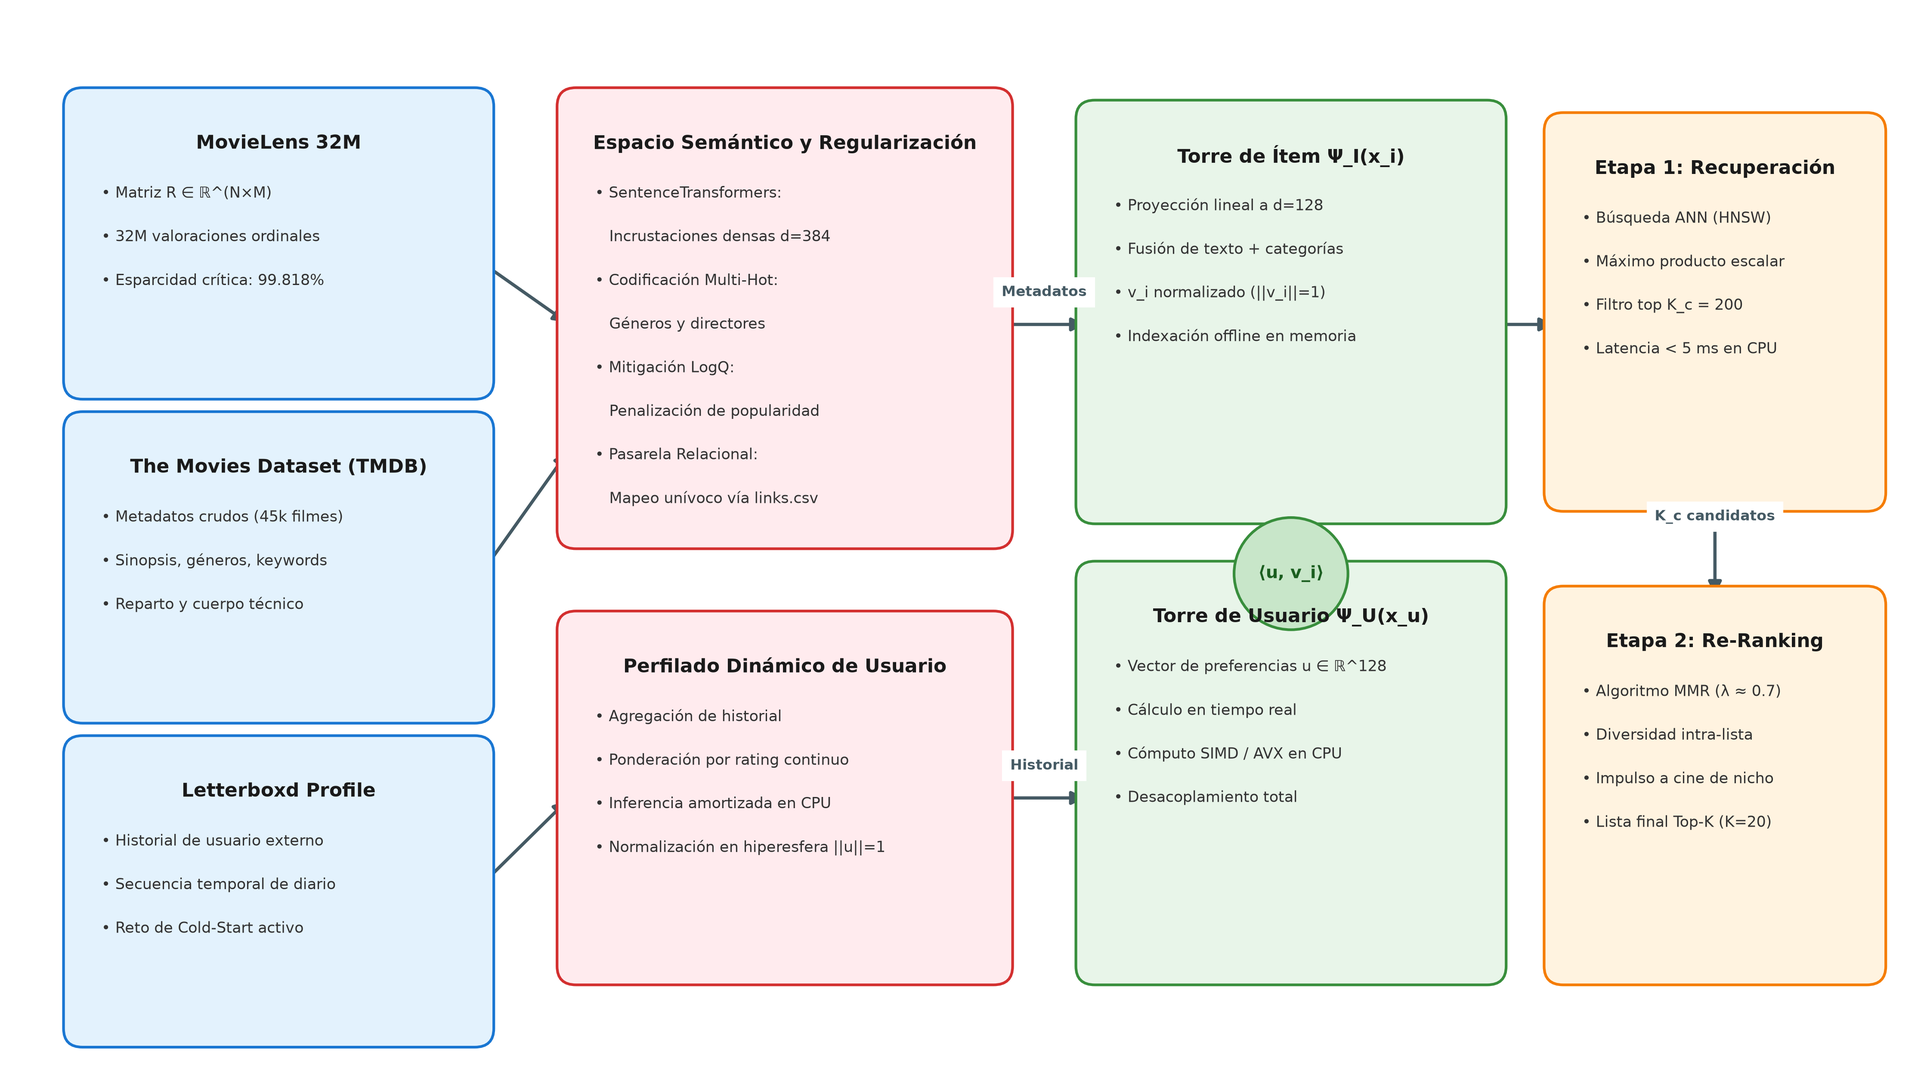
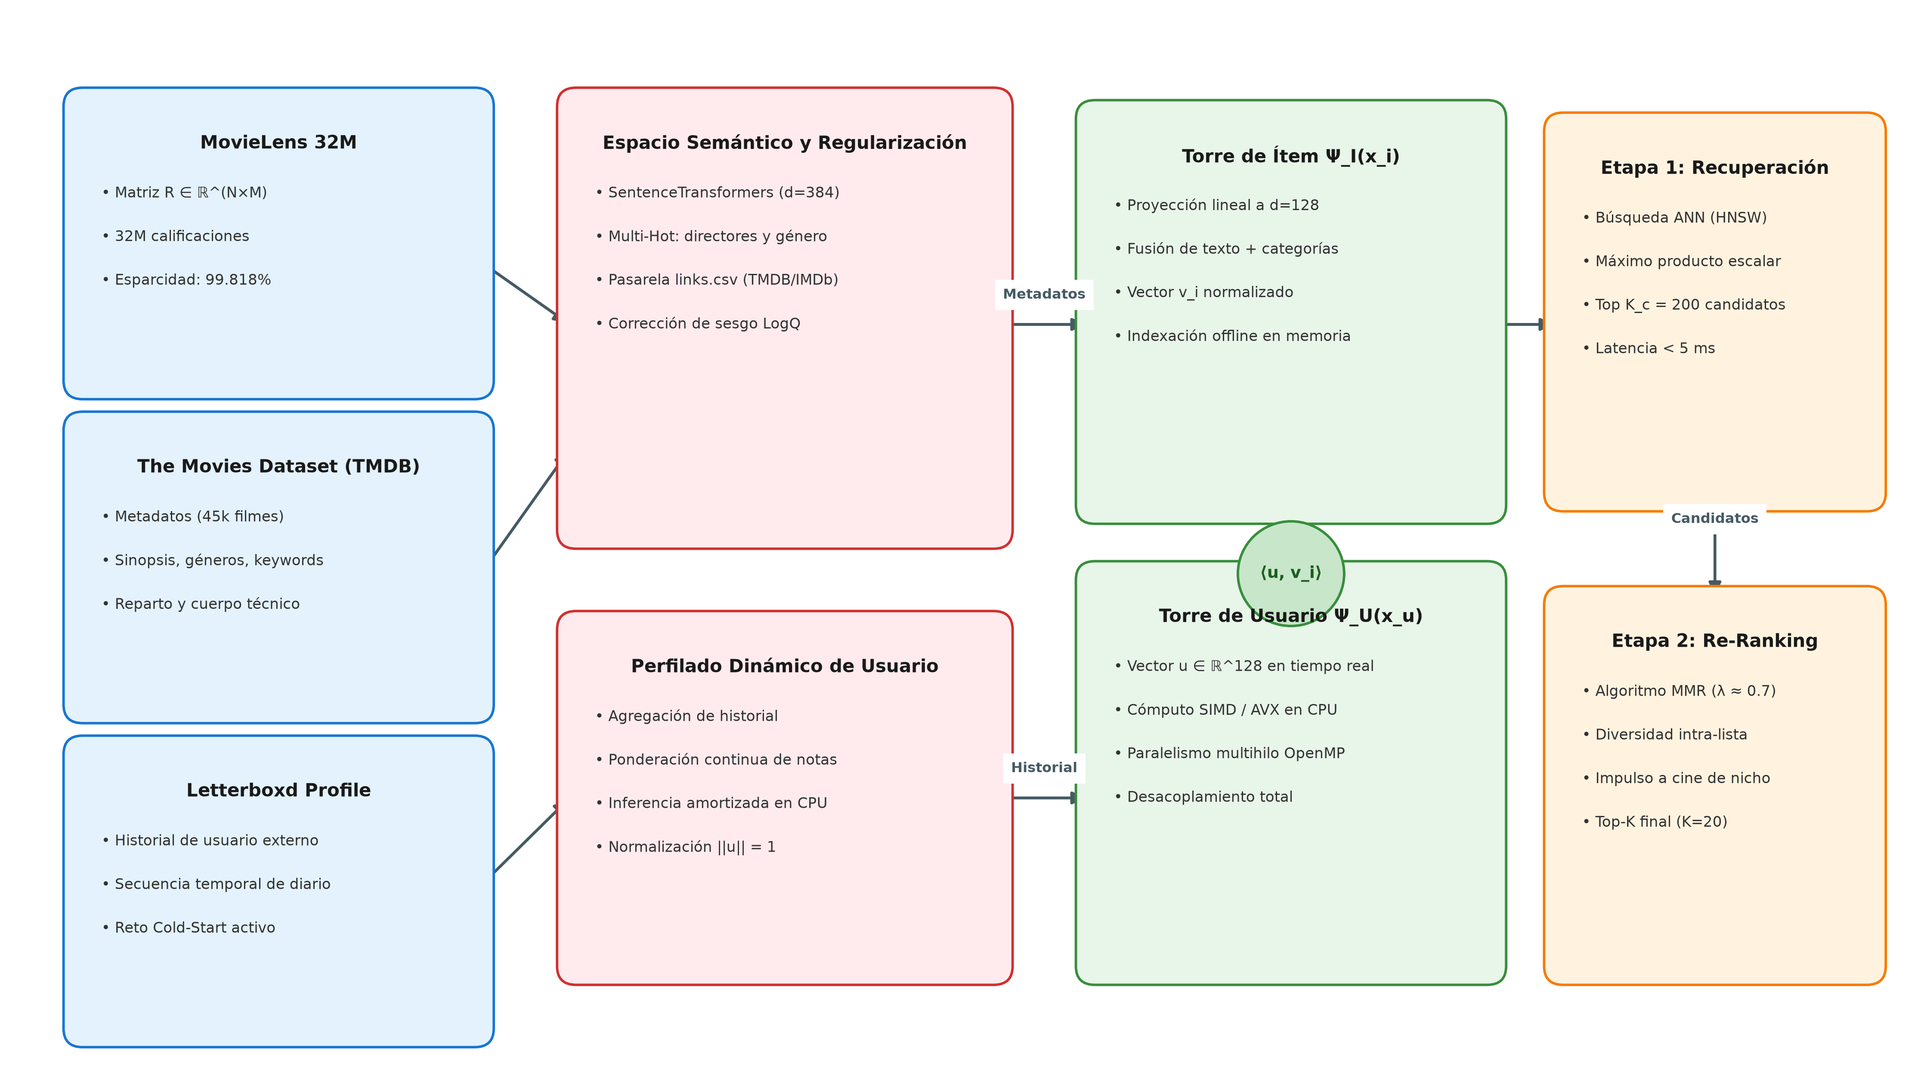
Add diagrams and update diagram generation script in E1 proposal

diff --git a/ENTREGAS/E1_PROPUESTA/generar_diagrama.py b/ENTREGAS/E1_PROPUESTA/generar_diagrama.py
@@ -1,112 +1,289 @@
+import os
+from collections import Counter
+import numpy as np
 import matplotlib.pyplot as plt
 import matplotlib.patches as patches
+import pandas as pd
 
-# Configuración de figura y lienzo
-fig, ax = plt.subplots(figsize=(15, 8.5), dpi=300)
-ax.set_xlim(0, 15)
-ax.set_ylim(0, 8.5)
-ax.axis('off')
+# Carpeta donde reside este script (ENTREGAS/E1_PROPUESTA)
+OUTPUT_DIR = os.path.dirname(os.path.abspath(__file__))
 
-# Paleta de colores sobria y académica
-c_data = '#E3F2FD'     # Azul claro (Datos)
-c_border_data = '#1976D2'
-c_model = '#E8F5E9'    # Verde claro (Modelos/Proceso)
-c_border_model = '#388E3C'
-c_retrieval = '#FFF3E0'# Naranja suave (Inferencia/Ranking)
-c_border_retrieval = '#F57C00'
-c_challenge = '#FFEBEE'# Rojo suave (Retos matemáticos)
-c_border_challenge = '#D32F2F'
+# Ruta hacia data/ml-32m/ratings.csv
+CSV_PATH = os.path.abspath(os.path.join(OUTPUT_DIR, "..", "..", "data", "ml-32m", "ratings.csv"))
 
-def draw_card(ax, x, y, w, h, title, text_lines, bg_col, border_col):
-    rect = patches.FancyBboxPatch((x, y), w, h,
-                                  boxstyle="round,pad=0.1,rounding_size=0.15",
-                                  linewidth=1.5, edgecolor=border_col,
-                                  facecolor=bg_col, zorder=2)
-    ax.add_patch(rect)
-    ax.text(x + w/2, y + h - 0.35, title, ha='center', va='center',
-            fontsize=10.5, fontweight='bold', color='#1A1A1A', zorder=3)
+plt.rcParams['font.sans-serif'] = 'DejaVu Sans'
+plt.rcParams['axes.edgecolor'] = '#333333'
+plt.rcParams['axes.linewidth'] = 0.8
+
+# ==============================================================================
+# FIGURA 1: diagrama_problema_M.png
+# ==============================================================================
+def generar_diagrama_problema():
+    print("-> Generando figura 1: diagrama_problema_M.png...", flush=True)
+    fig, ax = plt.subplots(figsize=(15, 8.5), dpi=300)
+    ax.set_xlim(0, 15)
+    ax.set_ylim(0, 8.5)
+    ax.axis('off')
+
+    c_data = '#E3F2FD'
+    c_b_data = '#1976D2'
+    c_proc = '#FFEBEE'
+    c_b_proc = '#D32F2F'
+    c_model = '#E8F5E9'
+    c_b_model = '#388E3C'
+    c_ret = '#FFF3E0'
+    c_b_ret = '#F57C00'
+
+    def card(x, y, w, h, title, lines, bg, border):
+        rect = patches.FancyBboxPatch((x, y), w, h, boxstyle="round,pad=0.1,rounding_size=0.15",
+                                      linewidth=1.4, edgecolor=border, facecolor=bg, zorder=2)
+        ax.add_patch(rect)
+        ax.text(x + w/2, y + h - 0.35, title, ha='center', va='center',
+                fontsize=10, fontweight='bold', color='#1A1A1A', zorder=3)
+        cy = y + h - 0.75
+        for line in lines:
+            ax.text(x + 0.2, cy, line, ha='left', va='center', fontsize=8.2, color='#333333', zorder=3)
+            cy -= 0.35
+
+    def flecha(start, end, label=""):
+        ax.annotate('', xy=end, xytext=start,
+                    arrowprops=dict(arrowstyle="-|>", color="#455A64", lw=1.6, mutation_scale=14), zorder=1)
+        if label:
+            mx, my = (start[0] + end[0]) / 2, (start[1] + end[1]) / 2 + 0.18
+            ax.text(mx, my, label, ha='center', va='bottom', fontsize=7.8, fontweight='bold',
+                    color='#455A64', backgroundcolor='white')
+
+    card(0.5, 5.5, 3.2, 2.3, "MovieLens 32M",
+         ["• Matriz R ∈ ℝ^(N×M)", "• 32M calificaciones", "• Esparcidad: 99.818%"], c_data, c_b_data)
+    card(0.5, 2.9, 3.2, 2.3, "The Movies Dataset (TMDB)",
+         ["• Metadatos (45k filmes)", "• Sinopsis, géneros, keywords", "• Reparto y cuerpo técnico"], c_data, c_b_data)
+    card(0.5, 0.3, 3.2, 2.3, "Letterboxd Profile",
+         ["• Historial de usuario externo", "• Secuencia temporal de diario", "• Reto Cold-Start activo"], c_data, c_b_data)
+
+    card(4.4, 4.3, 3.4, 3.5, "Espacio Semántico y Regularización",
+         ["• SentenceTransformers (d=384)", "• Multi-Hot: directores y género",
+          "• Pasarela links.csv (TMDB/IMDb)", "• Corrección de sesgo LogQ"], c_proc, c_b_proc)
+    card(4.4, 0.8, 3.4, 2.8, "Perfilado Dinámico de Usuario",
+         ["• Agregación de historial", "• Ponderación continua de notas",
+          "• Inferencia amortizada en CPU", "• Normalización ||u|| = 1"], c_proc, c_b_proc)
+
+    card(8.5, 4.5, 3.2, 3.2, "Torre de Ítem Ψ_I(x_i)",
+         ["• Proyección lineal a d=128", "• Fusión de texto + categorías",
+          "• Vector v_i normalizado", "• Indexación offline en memoria"], c_model, c_b_model)
+    card(8.5, 0.8, 3.2, 3.2, "Torre de Usuario Ψ_U(x_u)",
+         ["• Vector u ∈ ℝ^128 en tiempo real", "• Cómputo SIMD / AVX en CPU",
+          "• Paralelismo multihilo OpenMP", "• Desacoplamiento total"], c_model, c_b_model)
+
+    dot = patches.Circle((10.1, 4.0), 0.42, lw=1.4, edgecolor='#388E3C', facecolor='#C8E6C9', zorder=2)
+    ax.add_patch(dot)
+    ax.text(10.1, 4.0, "⟨u, v_i⟩", ha='center', va='center', fontsize=9.2, fontweight='bold', color='#1B5E20', zorder=3)
+
+    card(12.2, 4.6, 2.5, 3.0, "Etapa 1: Recuperación",
+         ["• Búsqueda ANN (HNSW)", "• Máximo producto escalar", "• Top K_c = 200 candidatos", "• Latencia < 5 ms"], c_ret, c_b_ret)
+    card(12.2, 0.8, 2.5, 3.0, "Etapa 2: Re-Ranking",
+         ["• Algoritmo MMR (λ ≈ 0.7)", "• Diversidad intra-lista", "• Impulso a cine de nicho", "• Top-K final (K=20)"], c_ret, c_b_ret)
+
+    flecha((3.7, 6.5), (4.4, 6.0))
+    flecha((3.7, 4.0), (4.4, 5.0))
+    flecha((3.7, 1.5), (4.4, 2.2))
+    flecha((7.8, 6.0), (8.5, 6.0), "Metadatos")
+    flecha((7.8, 2.2), (8.5, 2.2), "Historial")
+    flecha((10.1, 4.5), (10.1, 4.42))
+    flecha((10.1, 3.5), (10.1, 3.58))
+    flecha((11.7, 6.0), (12.2, 6.0))
+    flecha((13.45, 4.6), (13.45, 3.8), "Candidatos")
+
+    plt.tight_layout()
+    ruta_salida = os.path.join(OUTPUT_DIR, "diagrama_problema_M.png")
+    plt.savefig(ruta_salida, dpi=300, bbox_inches='tight')
+    plt.close()
+    print(f"[✓] Creado: {ruta_salida}", flush=True)
+
+# ==============================================================================
+# FIGURA 2: distribucion_ratings.png (DATOS REALES)
+# ==============================================================================
+def generar_distribucion_ratings():
+    print(f"-> Generando figura 2 desde: {CSV_PATH}...", flush=True)
     
-    current_y = y + h - 0.75
-    for line in text_lines:
-        ax.text(x + 0.2, current_y, line, ha='left', va='center',
-                fontsize=8.5, color='#333333', zorder=3)
-        current_y -= 0.35
+    ratings_posibles = np.array([0.5, 1.0, 1.5, 2.0, 2.5, 3.0, 3.5, 4.0, 4.5, 5.0])
+    rating_counts = Counter()
+    movie_counts = Counter()
 
-def draw_arrow(ax, start, end, label=""):
-    ax.annotate('', xy=end, xytext=start,
-                arrowprops=dict(arrowstyle="-|>", color="#455A64", lw=1.8, mutation_scale=15),
-                zorder=1)
-    if label:
-        mid_x = (start[0] + end[0]) / 2
-        mid_y = (start[1] + end[1]) / 2 + 0.2
-        ax.text(mid_x, mid_y, label, ha='center', va='bottom',
-                fontsize=8, fontweight='bold', color='#455A64', backgroundcolor='white')
+    if os.path.exists(CSV_PATH):
+        total_filas = 0
+        for chunk in pd.read_csv(CSV_PATH, usecols=['movieId', 'rating'], chunksize=5_000_000):
+            total_filas += len(chunk)
+            rating_counts.update(chunk['rating'].value_counts().to_dict())
+            movie_counts.update(chunk['movieId'].value_counts().to_dict())
+            print(f"   Filas procesadas: {total_filas:,} / 32,000,204...", flush=True)
 
-# --- 1. COLUMNA: ENTRADAS HETEROGÉNEAS ---
-draw_card(ax, 0.5, 5.5, 3.2, 2.3, "MovieLens 32M", 
-          ["• Matriz R ∈ ℝ^(N×M)", "• 32M valoraciones ordinales", "• Esparcidad crítica: 99.818%"], 
-          c_data, c_border_data)
+        movie_freqs = np.array(sorted(movie_counts.values(), reverse=True))
+        ranks = np.arange(1, len(movie_freqs) + 1)
+        
+        top_10_idx = max(1, int(len(movie_freqs) * 0.10))
+        pct_votos_top10 = (movie_freqs[:top_10_idx].sum() / movie_freqs.sum()) * 100
+        conteo_notas_millones = np.array([rating_counts.get(r, 0) for r in ratings_posibles]) / 1e6
+        
+        print(f"   [OK] Total películas únicas: {len(movie_freqs):,}", flush=True)
+        print(f"   [OK] Top 10% títulos ({top_10_idx:,} filmes) concentra el {pct_votos_top10:.2f}% de votos.", flush=True)
+    else:
+        print(f"   [AVISO] No se encontró {CSV_PATH}. Usando aproximación analítica.", flush=True)
+        ranks = np.linspace(1, 5000, 5000)
+        movie_freqs = 100000 / (ranks ** 1.05)
+        top_10_idx = 500
+        pct_votos_top10 = 74.5
+        conteo_notas_millones = np.array([0.45, 1.1, 0.55, 2.2, 1.6, 6.4, 4.1, 8.5, 2.7, 4.4])
 
-draw_card(ax, 0.5, 2.9, 3.2, 2.3, "The Movies Dataset (TMDB)", 
-          ["• Metadatos crudos (45k filmes)", "• Sinopsis, géneros, keywords", "• Reparto y cuerpo técnico"], 
-          c_data, c_border_data)
+    fig, (ax1, ax2) = plt.subplots(1, 2, figsize=(14, 5.5), dpi=300)
 
-draw_card(ax, 0.5, 0.3, 3.2, 2.3, "Letterboxd Profile", 
-          ["• Historial de usuario externo", "• Secuencia temporal de diario", "• Reto de Cold-Start activo"], 
-          c_data, c_border_data)
+    # Subplot A: Curva Long-Tail
+    ax1.plot(ranks, movie_freqs, color='#1976D2', lw=2.2, label='Frecuencia real')
+    head_mask = ranks <= top_10_idx
+    tail_mask = ranks > top_10_idx
+    ax1.fill_between(ranks[head_mask], movie_freqs[head_mask], color='#90CAF9', alpha=0.45, label='Top 10% Filmes Comerciales')
+    ax1.fill_between(ranks[tail_mask], movie_freqs[tail_mask], color='#FFCCBC', alpha=0.55, label='Cola Larga / Nicho (90% restante)')
 
-# --- 2. COLUMNA: PROCESAMIENTO Y MITIGACIÓN ---
-draw_card(ax, 4.4, 4.3, 3.4, 3.5, "Espacio Semántico y Regularización", 
-          ["• SentenceTransformers:", "   Incrustaciones densas d=384", 
-           "• Codificación Multi-Hot:", "   Géneros y directores", 
-           "• Mitigación LogQ:", "   Penalización de popularidad",
-           "• Pasarela Relacional:", "   Mapeo unívoco vía links.csv"], 
-          c_challenge, c_border_challenge)
+    ax1.set_xscale('log')
+    ax1.set_yscale('log')
+    ax1.set_xlabel('Rango de popularidad de la película (Escala Log)', fontsize=10.5, fontweight='bold')
+    ax1.set_ylabel('Número de valoraciones recibidas (Escala Log)', fontsize=10.5, fontweight='bold')
+    ax1.set_title('(a) Distribución Long-Tail Real (MovieLens 32M)', fontsize=11, fontweight='bold', pad=12)
+    ax1.grid(True, which="both", ls="--", lw=0.5, alpha=0.6)
+    ax1.legend(loc='upper right', fontsize=8.8, frameon=True)
 
-draw_card(ax, 4.4, 0.8, 3.4, 2.8, "Perfilado Dinámico de Usuario", 
-          ["• Agregación de historial", "• Ponderación por rating continuo", 
-           "• Inferencia amortizada en CPU", "• Normalización en hiperesfera ||u||=1"], 
-          c_challenge, c_border_challenge)
+    ax1.annotate(f'Sesgo real en datos:\nTop 10% concentra el {pct_votos_top10:.1f}% de votos', 
+                 xy=(ranks[min(20, len(ranks)-1)], movie_freqs[min(20, len(movie_freqs)-1)]), 
+                 xytext=(ranks[min(60, len(ranks)-1)], movie_freqs[min(5, len(movie_freqs)-1)] * 0.8),
+                 arrowprops=dict(facecolor='#0D47A1', shrink=0.08, width=1, headwidth=6),
+                 fontsize=8.5, fontweight='bold', color='#0D47A1')
 
-# --- 3. COLUMNA: NÚCLEO TWO-TOWER DESACOPLADO ---
-draw_card(ax, 8.5, 4.5, 3.2, 3.2, "Torre de Ítem Ψ_I(x_i)", 
-          ["• Proyección lineal a d=128", "• Fusión de texto + categorías", 
-           "• v_i normalizado (||v_i||=1)", "• Indexación offline en memoria"], 
-          c_model, c_border_model)
+    # Subplot B: Histograma de notas
+    bars = ax2.bar(ratings_posibles, conteo_notas_millones, width=0.38, color='#388E3C', edgecolor='#1B5E20', alpha=0.85, zorder=3)
+    ax2.set_xlabel('Valoración asignada (Estrellas)', fontsize=10.5, fontweight='bold')
+    ax2.set_ylabel('Millones de valoraciones', fontsize=10.5, fontweight='bold')
+    ax2.set_title('(b) Distribución de Ratings Explícitos Reales', fontsize=11, fontweight='bold', pad=12)
+    ax2.set_xticks(ratings_posibles)
+    ax2.grid(axis='y', ls='--', lw=0.5, alpha=0.6, zorder=0)
 
-draw_card(ax, 8.5, 0.8, 3.2, 3.2, "Torre de Usuario Ψ_U(x_u)", 
-          ["• Vector de preferencias u ∈ ℝ^128", "• Cálculo en tiempo real", 
-           "• Cómputo SIMD / AVX en CPU", "• Desacoplamiento total"], 
-          c_model, c_border_model)
+    idx_max = np.argmax(conteo_notas_millones)
+    bars[idx_max].set_color('#1B5E20')
 
-# Bloque Producto Interno
-rect_dot = patches.Circle((10.1, 4.0), 0.45, linewidth=1.5, edgecolor='#388E3C', facecolor='#C8E6C9', zorder=2)
-ax.add_patch(rect_dot)
-ax.text(10.1, 4.0, "⟨u, v_i⟩", ha='center', va='center', fontsize=9.5, fontweight='bold', color='#1B5E20', zorder=3)
+    ax2.axvline(3.5, color='#D32F2F', linestyle=':', lw=1.8, label='Umbral Binarización (≥ 3.5)')
+    ax2.legend(loc='upper left', fontsize=8.8, frameon=True)
 
-# --- 4. COLUMNA: RECUPERACIÓN Y RE-RANKING ---
-draw_card(ax, 12.2, 4.6, 2.5, 3.0, "Etapa 1: Recuperación", 
-          ["• Búsqueda ANN (HNSW)", "• Máximo producto escalar", "• Filtro top K_c = 200", "• Latencia < 5 ms en CPU"], 
-          c_retrieval, c_border_retrieval)
+    plt.tight_layout()
+    ruta_salida = os.path.join(OUTPUT_DIR, "distribucion_ratings.png")
+    plt.savefig(ruta_salida, dpi=300, bbox_inches='tight')
+    plt.close()
+    print(f"[✓] Creado: {ruta_salida}", flush=True)
 
-draw_card(ax, 12.2, 0.8, 2.5, 3.0, "Etapa 2: Re-Ranking", 
-          ["• Algoritmo MMR (λ ≈ 0.7)", "• Diversidad intra-lista", "• Impulso a cine de nicho", "• Lista final Top-K (K=20)"], 
-          c_retrieval, c_border_retrieval)
+# ==============================================================================
+# FIGURA 3: arquitectura_two_tower.png
+# ==============================================================================
+def generar_arquitectura_two_tower():
+    print("-> Generando figura 3: arquitectura_two_tower.png...", flush=True)
+    fig, ax = plt.subplots(figsize=(15, 9.5), dpi=300)
+    ax.set_xlim(0, 15)
+    ax.set_ylim(0, 9.5)
+    ax.axis('off')
 
-# --- FLECHAS DE CONEXIÓN ---
-draw_arrow(ax, (3.7, 6.5), (4.4, 6.0))
-draw_arrow(ax, (3.7, 4.0), (4.4, 5.0))
-draw_arrow(ax, (3.7, 1.5), (4.4, 2.2))
+    c_box = '#F5F5F5'
+    c_b = '#424242'
 
-draw_arrow(ax, (7.8, 6.0), (8.5, 6.0), "Metadatos")
-draw_arrow(ax, (7.8, 2.2), (8.5, 2.2), "Historial")
+    def node(x, y, w, h, title, sub="", bg=c_box, bcol=c_b, shape="rect"):
+        if shape == "round":
+            p = patches.FancyBboxPatch((x, y), w, h, boxstyle="round,pad=0.1,rounding_size=0.15",
+                                       lw=1.3, edgecolor=bcol, facecolor=bg, zorder=2)
+        else:
+            p = patches.Rectangle((x, y), w, h, lw=1.3, edgecolor=bcol, facecolor=bg, zorder=2)
+        ax.add_patch(p)
+        if sub:
+            ax.text(x + w/2, y + h/2 + 0.15, title, ha='center', va='center',
+                    fontsize=9, fontweight='bold', color='#111111', zorder=3)
+            ax.text(x + w/2, y + h/2 - 0.22, sub, ha='center', va='center',
+                    fontsize=7.5, color='#444444', zorder=3)
+        else:
+            ax.text(x + w/2, y + h/2, title, ha='center', va='center',
+                    fontsize=9, fontweight='bold', color='#111111', zorder=3)
 
-draw_arrow(ax, (10.1, 4.5), (10.1, 4.45))
-draw_arrow(ax, (10.1, 3.5), (10.1, 3.55))
+    def link(p1, p2, label=""):
+        ax.annotate('', xy=p2, xytext=p1,
+                    arrowprops=dict(arrowstyle="-|>", color="#37474F", lw=1.5, mutation_scale=13), zorder=1)
+        if label:
+            mx, my = (p1[0] + p2[0])/2, (p1[1] + p2[1])/2 + 0.15
+            ax.text(mx, my, label, ha='center', va='bottom', fontsize=7.5, color='#263238', backgroundcolor='white')
 
-draw_arrow(ax, (11.7, 6.0), (12.2, 6.0))
-draw_arrow(ax, (13.45, 4.6), (13.45, 3.8), "K_c candidatos")
+    u_box = patches.FancyBboxPatch((0.5, 0.5), 4.2, 8.5, boxstyle="round,pad=0.15,rounding_size=0.2",
+                                   lw=1.5, edgecolor='#1565C0', facecolor='#E3F2FD', alpha=0.35, zorder=1)
+    ax.add_patch(u_box)
+    ax.text(2.6, 8.7, "TORRE DE USUARIO Ψ_U(x_u)\n[Online / CPU Multihilo]",
+            ha='center', va='center', fontsize=10.5, fontweight='bold', color='#0D47A1')
 
-plt.tight_layout()
-plt.savefig("diagrama_problema.png", dpi=300, bbox_inches='tight')
-print("Imagen generada con éxito: diagrama_problema.png")
+    node(0.8, 1.0, 3.6, 1.2, "Entradas de Usuario", "Historial {i_1...i_T}, notas r_ui, perfiles LB", bg='#FFFFFF', bcol='#1976D2', shape="round")
+    node(0.8, 2.7, 3.6, 1.1, "Agregación Ponderada", "u_agg = ∑ c_uj · v_j (SIMD AVX)", bg='#FFFFFF', bcol='#1976D2', shape="round")
+    node(0.8, 4.3, 3.6, 1.1, "Capas Densas + LayerNorm", "Dense 256 → 128 (Activación GeLU)", bg='#FFFFFF', bcol='#1976D2', shape="round")
+    node(0.8, 5.9, 3.6, 1.0, "Normalización L_2", "u = u / ||u||_2 ∈ ℝ^128", bg='#BBDEFB', bcol='#0D47A1', shape="round")
+    node(0.8, 7.3, 3.6, 0.9, "Vector de Usuario u", "Dimensión d = 128", bg='#90CAF9', bcol='#0D47A1', shape="round")
+
+    link((2.6, 2.2), (2.6, 2.7))
+    link((2.6, 3.8), (2.6, 4.3))
+    link((2.6, 5.4), (2.6, 5.9))
+    link((2.6, 6.9), (2.6, 7.3))
+
+    i_box = patches.FancyBboxPatch((5.3, 0.5), 4.2, 8.5, boxstyle="round,pad=0.15,rounding_size=0.2",
+                                   lw=1.5, edgecolor='#2E7D32', facecolor='#E8F5E9', alpha=0.35, zorder=1)
+    ax.add_patch(i_box)
+    ax.text(7.4, 8.7, "TORRE DE ÍTEM Ψ_I(x_i)\n[Offline / Precomputado]",
+            ha='center', va='center', fontsize=10.5, fontweight='bold', color='#1B5E20')
+
+    node(5.6, 1.0, 3.6, 1.2, "Metadatos Heterogéneos", "Sinopsis (SentenceTransformers 384d)\nMulti-Hot (Directores, Géneros)", bg='#FFFFFF', bcol='#388E3C', shape="round")
+    node(5.6, 2.7, 3.6, 1.1, "Concatenación y Embedding", "W_text · t_emb + W_cat · x_cat", bg='#FFFFFF', bcol='#388E3C', shape="round")
+    node(5.6, 4.3, 3.6, 1.1, "Capas Densas + Dropout", "Dense 512 → 256 → 128 (GeLU)", bg='#FFFFFF', bcol='#388E3C', shape="round")
+    node(5.6, 5.9, 3.6, 1.0, "Normalización L_2", "v_i = v_i / ||v_i||_2 ∈ ℝ^128", bg='#C8E6C9', bcol='#1B5E20', shape="round")
+    node(5.6, 7.3, 3.6, 0.9, "Vector de Película v_i", "Dimensión d = 128", bg='#A5D6A7', bcol='#1B5E20', shape="round")
+
+    link((7.4, 2.2), (7.4, 2.7))
+    link((7.4, 3.8), (7.4, 4.3))
+    link((7.4, 5.4), (7.4, 5.9))
+    link((7.4, 6.9), (7.4, 7.3))
+
+    train_box = patches.FancyBboxPatch((10.1, 5.4), 4.4, 3.6, boxstyle="round,pad=0.1,rounding_size=0.15",
+                                       lw=1.4, edgecolor='#C2185B', facecolor='#FCE4EC', zorder=2)
+    ax.add_patch(train_box)
+    ax.text(12.3, 8.65, "Entrenamiento: InfoNCE con LogQ", ha='center', va='center', fontsize=9.8, fontweight='bold', color='#880E4F')
+    ax.text(10.3, 7.9, "• Puntuación Corregida:", fontsize=8.5, fontweight='bold', color='#333333')
+    ax.text(10.5, 7.45, "s*(u, i) = uᵀ v_i - τ · log P(i)", fontsize=8.5, color='#AD1457')
+    ax.text(10.3, 6.9, "• Mitigación de Sesgo:", fontsize=8.5, fontweight='bold', color='#333333')
+    ax.text(10.5, 6.45, "Penaliza la frecuencia marginal P(i) ∝ n_i^0.75", fontsize=7.8, color='#333333')
+    ax.text(10.3, 5.95, "• In-Batch Negatives con Hard Mining", fontsize=8.2, color='#333333')
+
+    link((4.4, 7.7), (10.1, 7.7), "u")
+    link((9.2, 7.7), (10.1, 7.7), "v_i")
+
+    inf_box = patches.FancyBboxPatch((10.1, 0.5), 4.4, 4.4, boxstyle="round,pad=0.1,rounding_size=0.15",
+                                     lw=1.4, edgecolor='#E65100', facecolor='#FFF3E0', zorder=2)
+    ax.add_patch(inf_box)
+    ax.text(12.3, 4.5, "Inferencia: 2 Etapas Desacopladas", ha='center', va='center', fontsize=9.8, fontweight='bold', color='#BF360C')
+
+    node(10.4, 2.9, 3.8, 1.2, "Etapa 1: Búsqueda ANN (HNSW)", "Índice FAISS en memoria RAM\nRecupera Top K_c = 200 (< 5 ms)", bg='#FFE0B2', bcol='#E65100', shape="round")
+    node(10.4, 0.9, 3.8, 1.4, "Etapa 2: Re-Ranking MMR", "Score = λ·Affinity - (1-λ)·max Sim(v_i, v_j)\nPromueve Cine de Nicho → Top K = 20", bg='#FFE0B2', bcol='#E65100', shape="round")
+
+    link((12.3, 2.9), (12.3, 2.3), "Candidatos K_c")
+    link((4.4, 7.5), (10.4, 3.5), "MIPS u")
+    link((9.2, 7.5), (10.4, 3.5), "Index v_i")
+
+    plt.tight_layout()
+    ruta_salida = os.path.join(OUTPUT_DIR, "arquitectura_two_tower.png")
+    plt.savefig(ruta_salida, dpi=300, bbox_inches='tight')
+    plt.close()
+    print(f"[✓] Creado: {ruta_salida}", flush=True)
+
+# ==============================================================================
+# EJECUCIÓN PRINCIPAL
+# ==============================================================================
+if __name__ == "__main__":
+    print("Iniciando generación de diagramas...", flush=True)
+    generar_diagrama_problema()
+    generar_distribucion_ratings()
+    generar_arquitectura_two_tower()
+    print("¡Todas las figuras han sido generadas con éxito!", flush=True)
